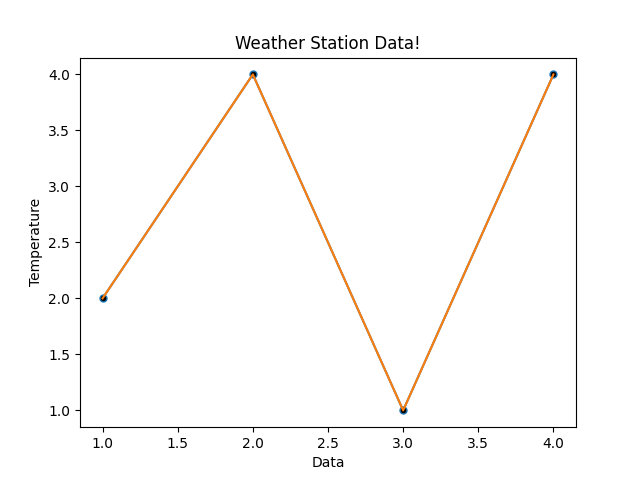
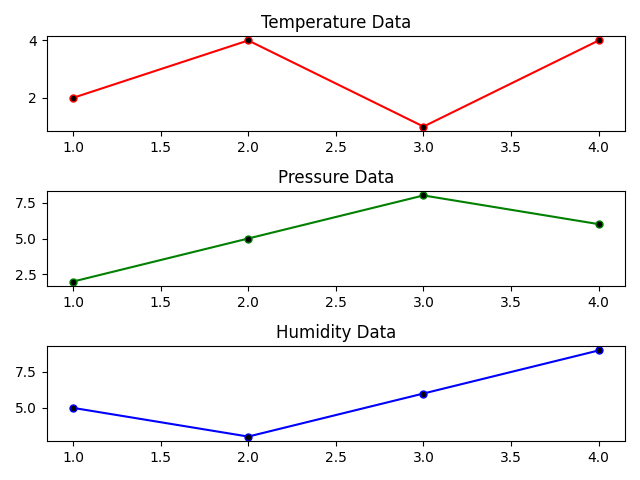
third

diff --git a/test1.py b/test1.py
@@ -1,23 +1,23 @@
 
 # importing the required module
 import matplotlib.pyplot as plt
- 
+figure, axis = plt.subplots(3,1)
 # x axis values
 x = [1,2,3,4]
 # corresponding y axis values
 y = [2,4,1,4]
- 
-# plotting the points
-plt.plot(x, y, marker='o', markerfacecolor='black', markersize=5)
-plt.plot(x, y)
- 
-# naming the x axis
-plt.xlabel('Data')
-# naming the y axis
-plt.ylabel('Temperature')
- 
-# giving a title to my graph
-plt.title('Weather Station Data!')
-plt.savefig('chart.png')
+y1= [2,5,8,6]
+y2 =[5,3,6,9]
+
+axis[0].plot(x, y, color = 'r', marker='o', markerfacecolor='black', markersize=5)
+axis[0].set_title("Temperature Data")
+
+axis[1].plot(x, y1, color = 'g', marker='o', markerfacecolor='black', markersize=5)
+axis[1].set_title("Pressure Data")
+
+axis[2].plot(x, y2, color = 'b', marker='o', markerfacecolor='black', markersize=5)
+axis[2].set_title("Humidity Data")
 # function to show the plot
+figure.tight_layout()
+plt.savefig('chart.png')
 plt.show()

diff --git a/readme.md b/readme.md
@@ -1,1 +1,2 @@
 ![Alt text](/chart.png?raw=true "Title")
+
